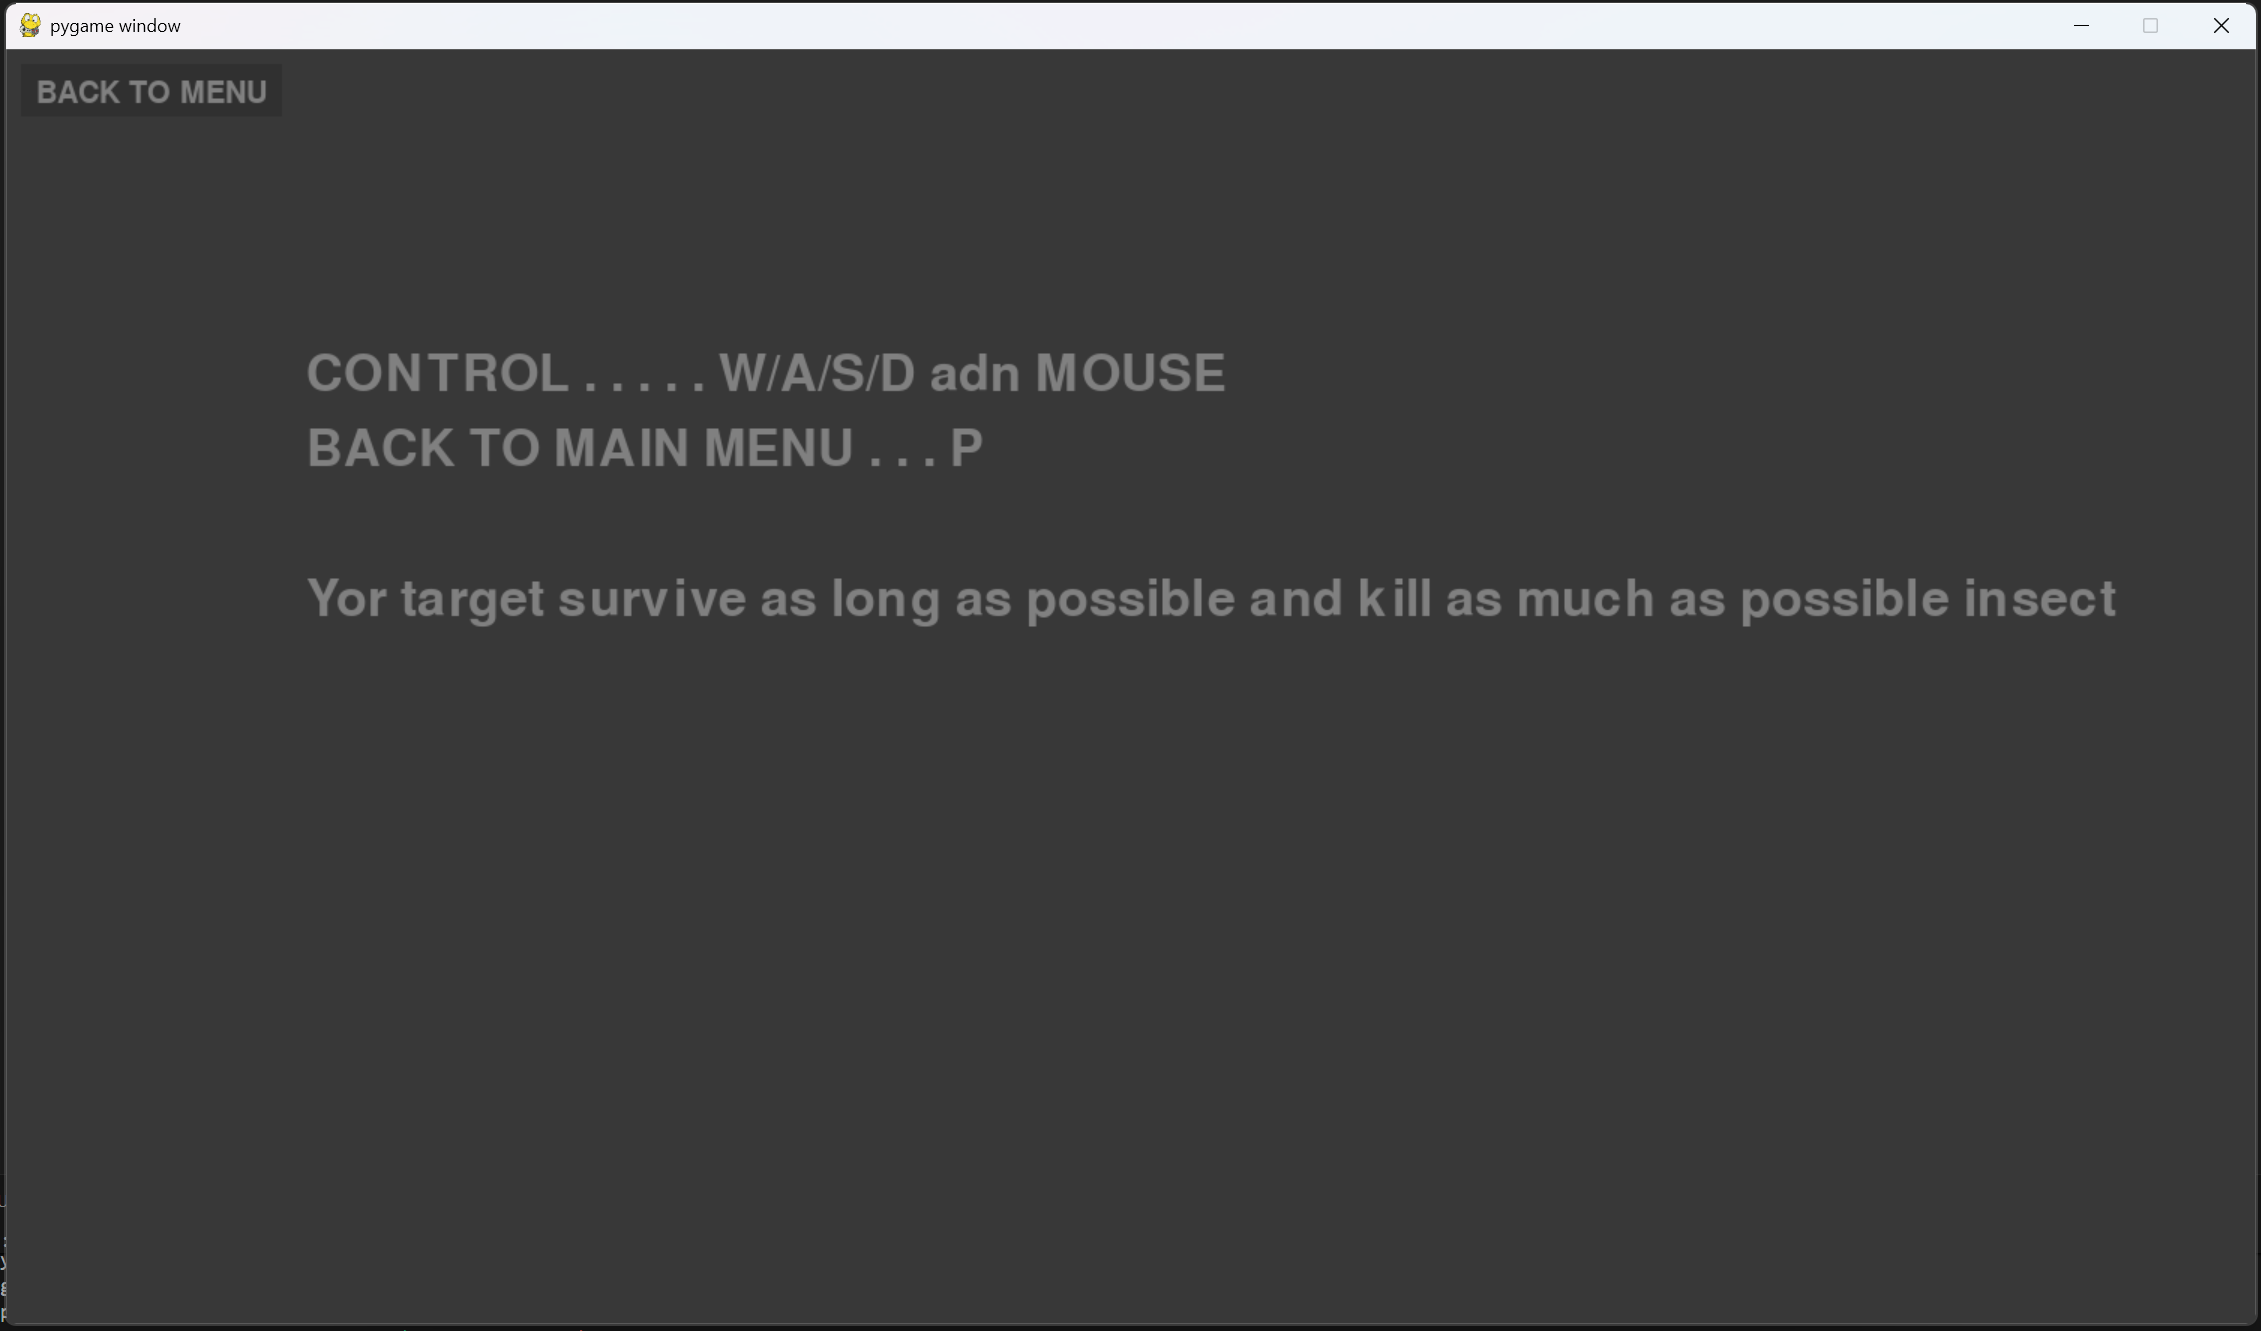
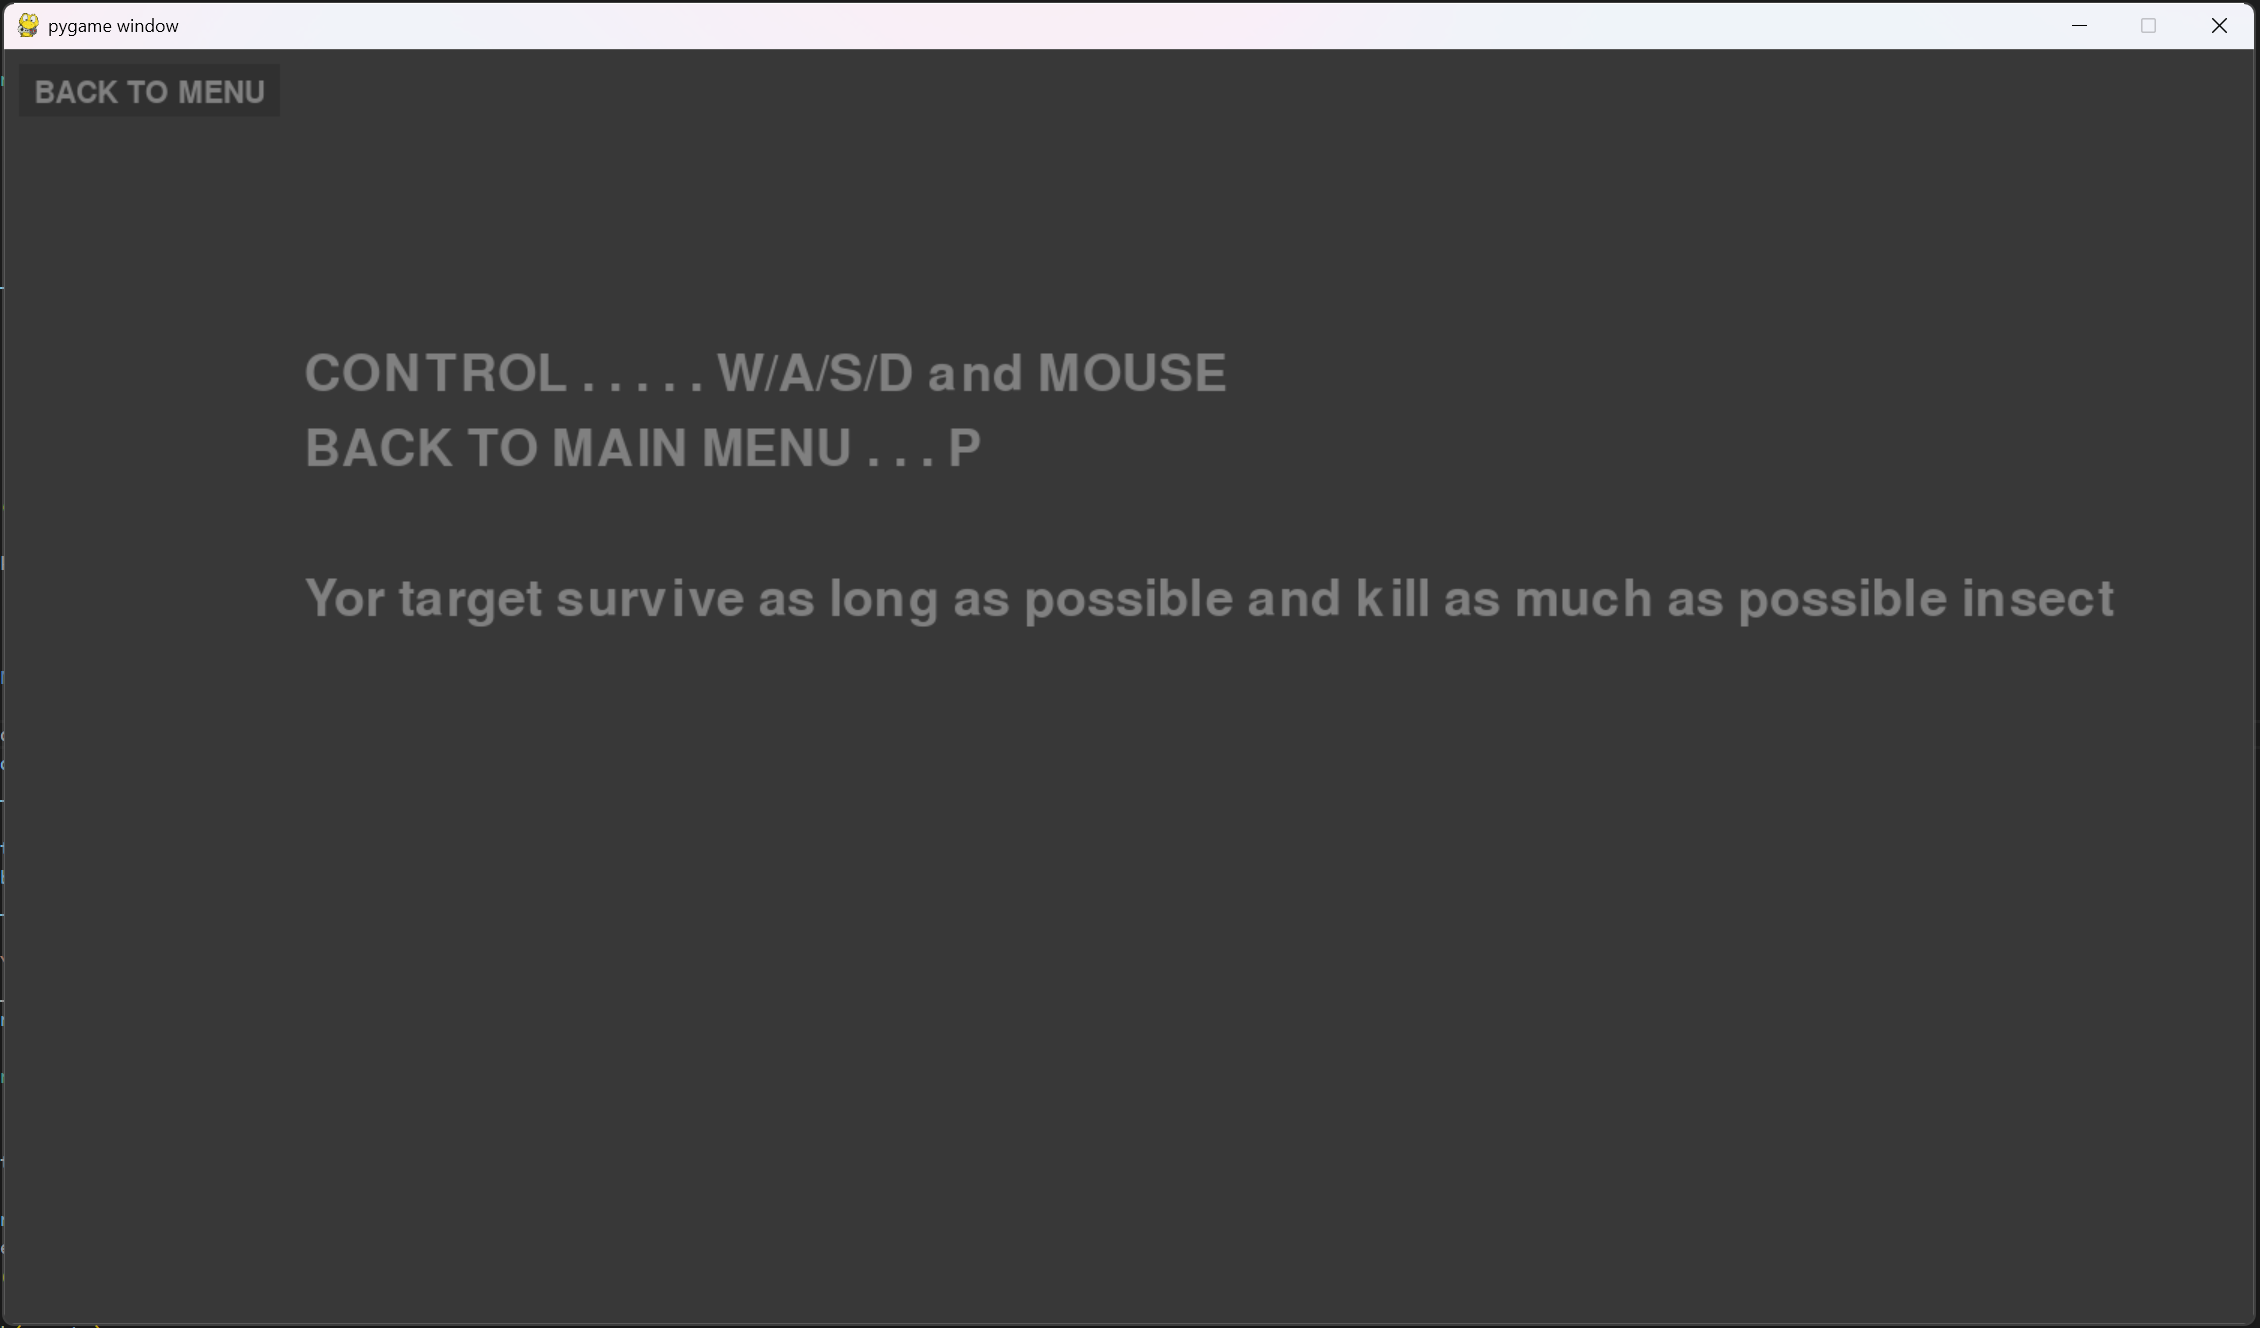
add gif

diff --git a/src/interface/menu/InfoMenu.py b/src/interface/menu/InfoMenu.py
@@ -24,7 +24,7 @@ def info_menu(main_sf):
 
     font = pg.font.Font(None, 50)
 
-    control_t = font.render("CONTROL . . . . . W/A/S/D adn MOUSE", True, PASSIVE_FONT)
+    control_t = font.render("CONTROL . . . . . W/A/S/D and MOUSE", True, PASSIVE_FONT)
     control_rect = control_t.get_rect(topleft=(200, 200))
     surface.blit(control_t, control_rect)
 
